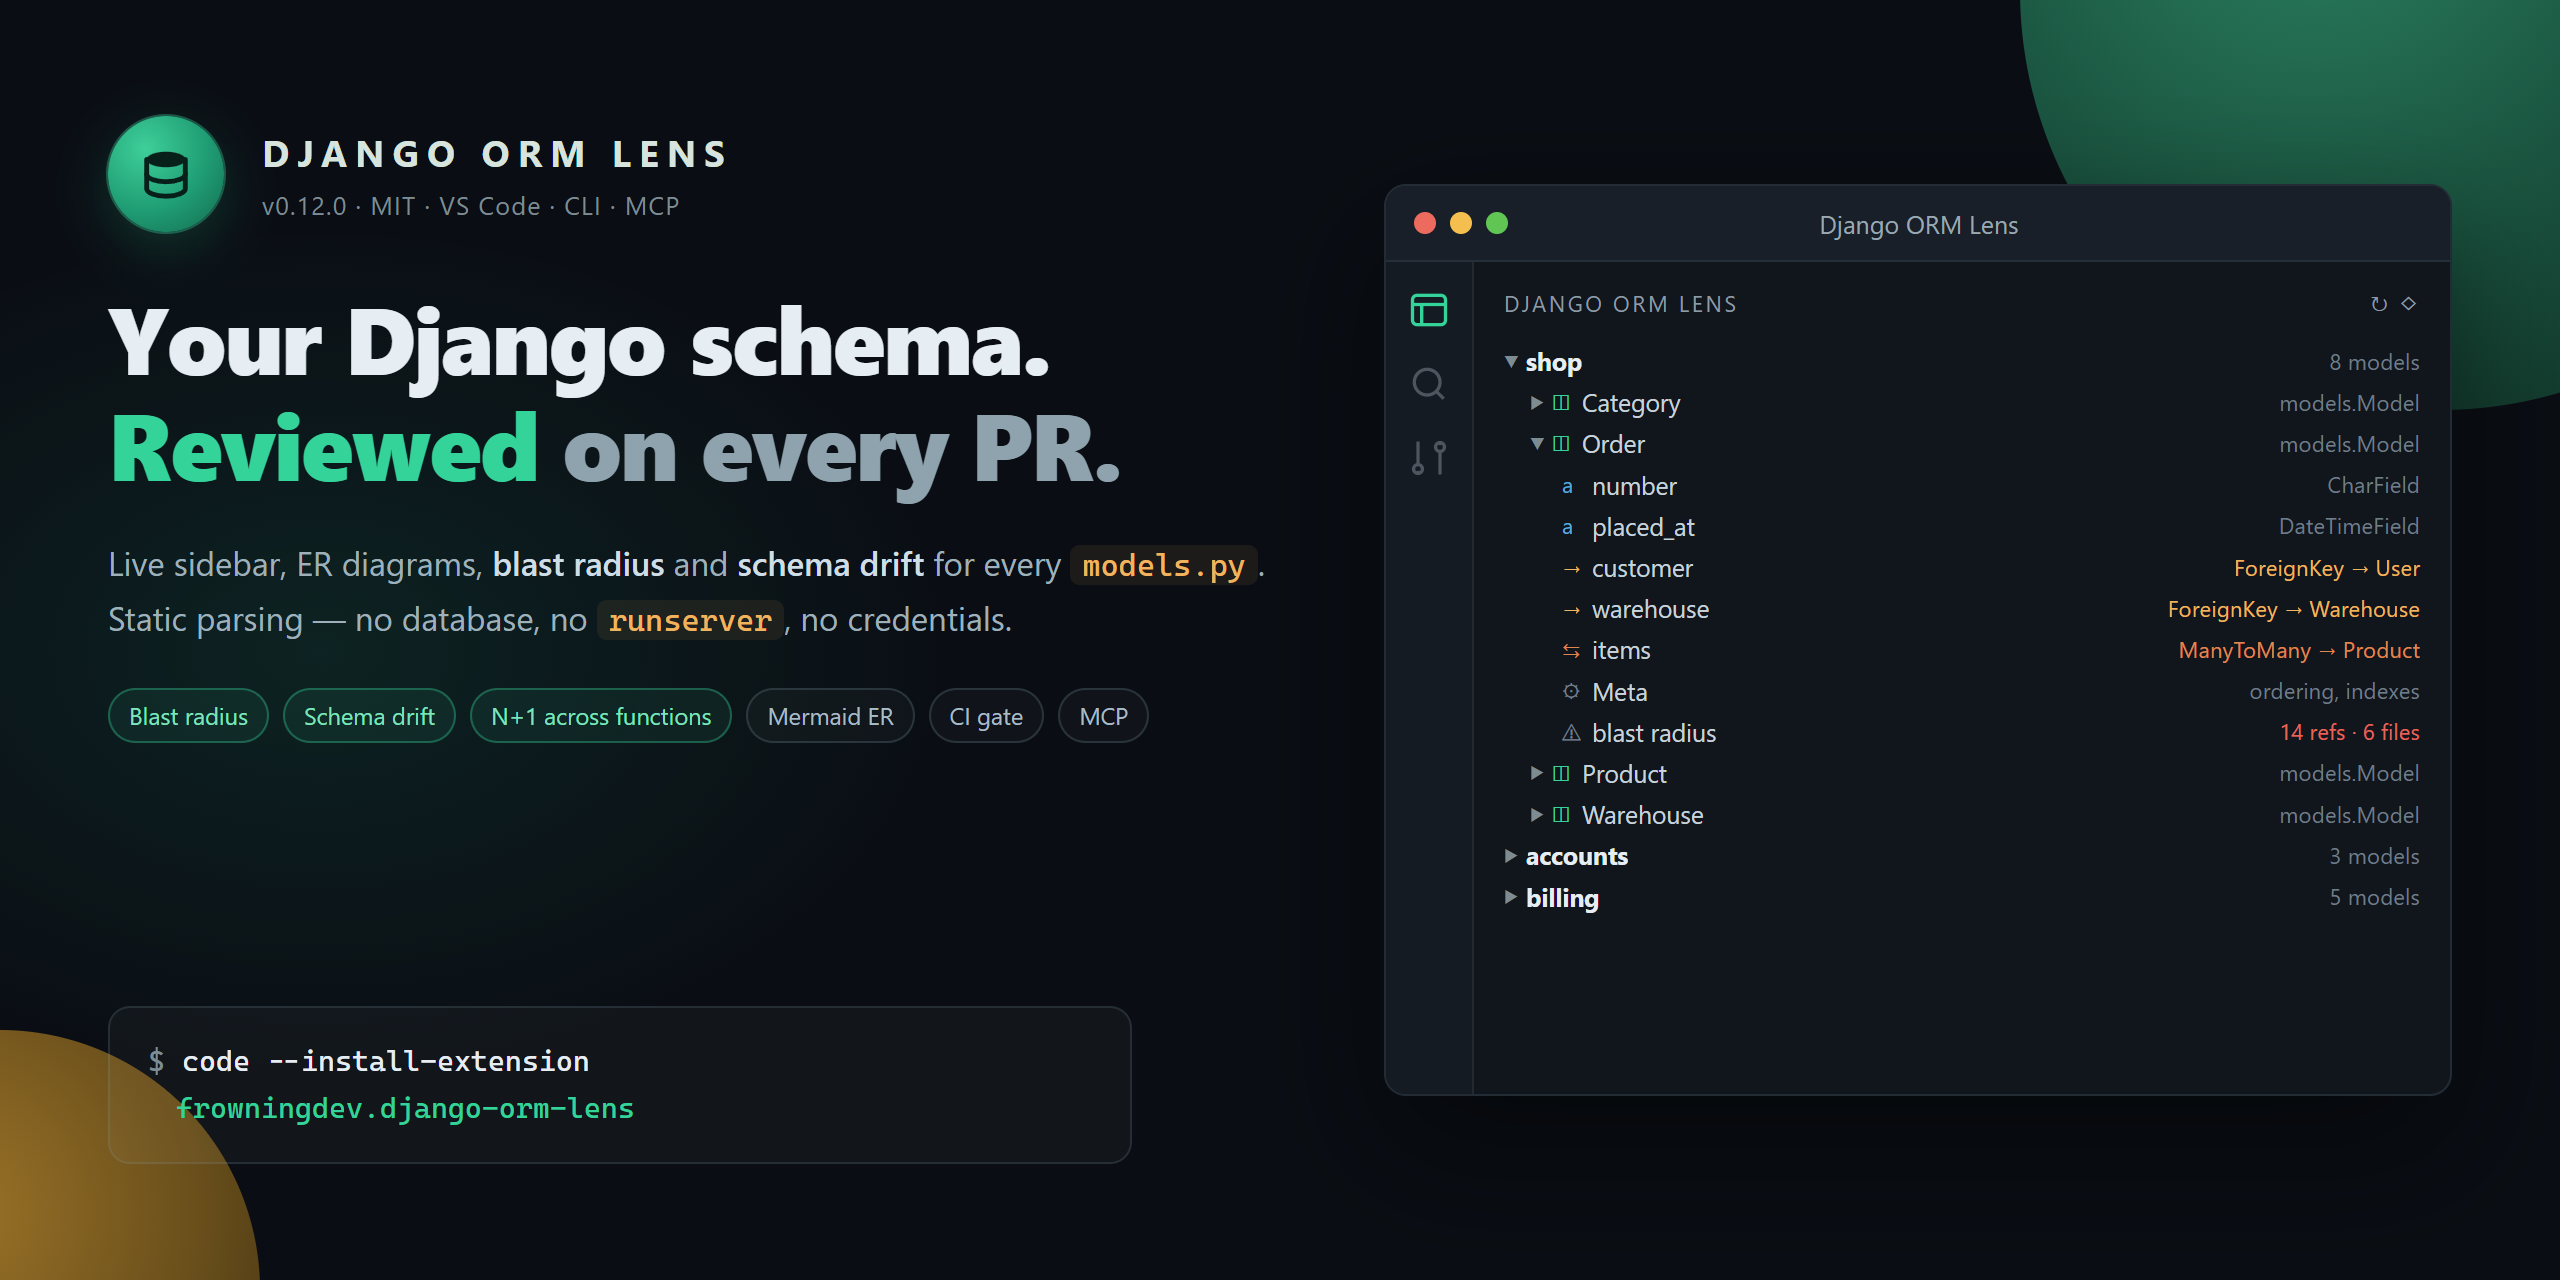
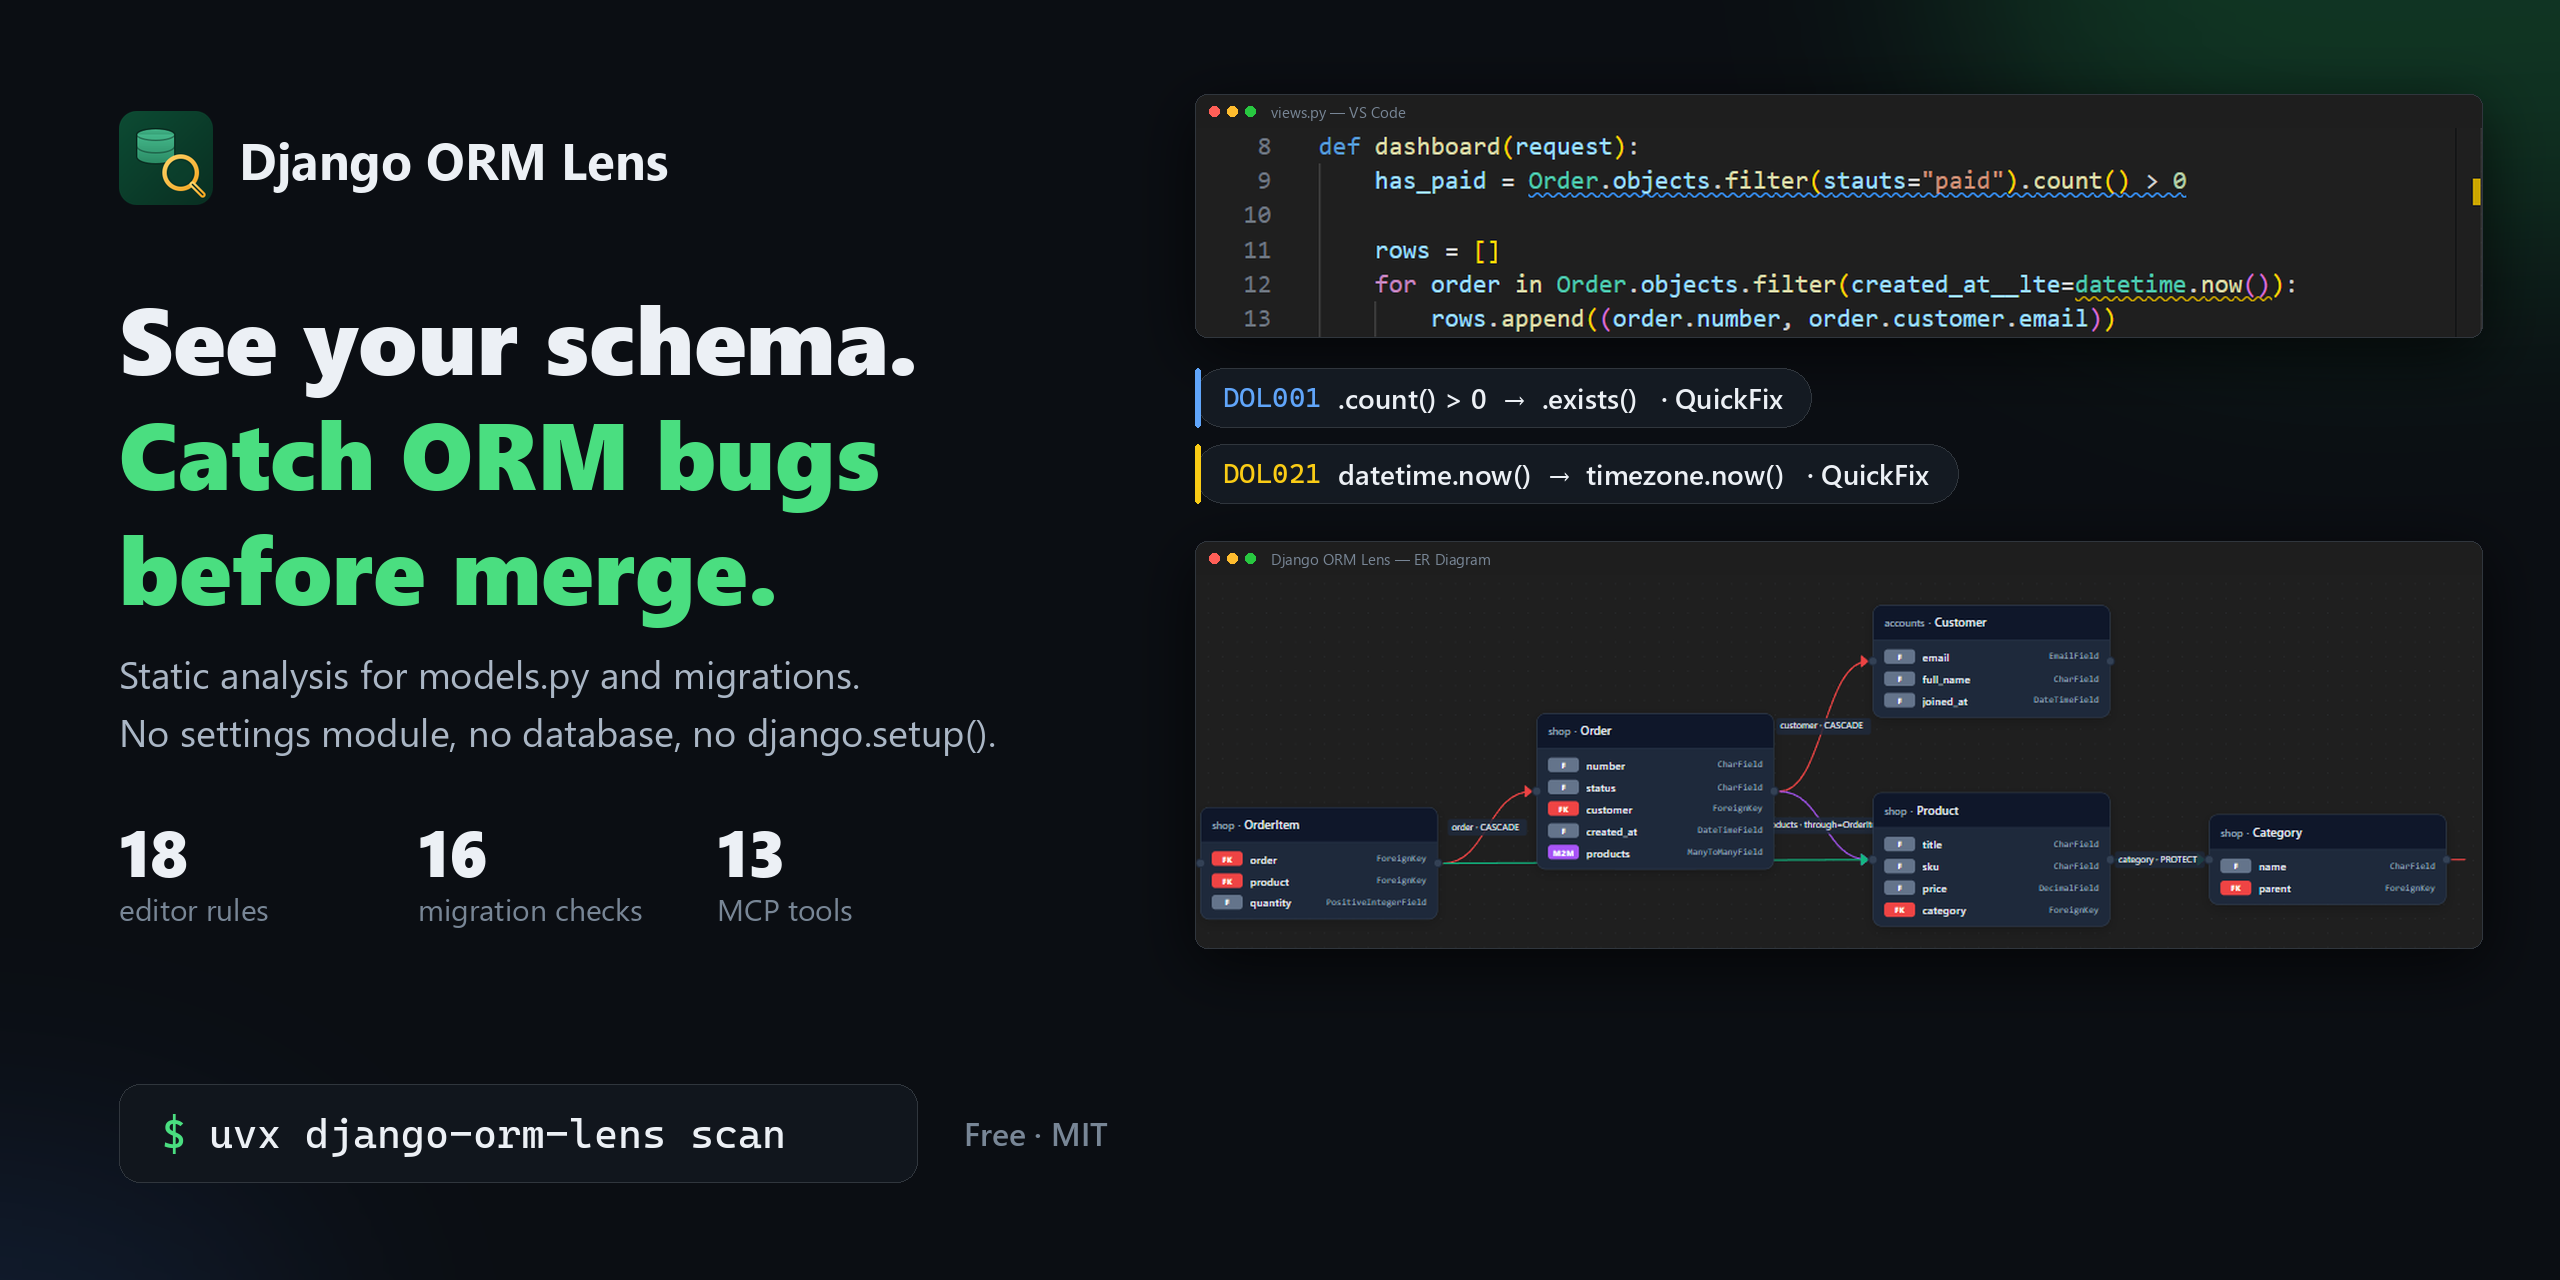
docs(readme): real VS Code capture for the hero and the screenshot section (#117)
The old hero still said v0.12.0 and was a drawn mock-up. The new one is
built from a VS Code window running extension 0.19.0 on a five-model
demo project: the diagnostics shown (DOL001, DOL021) and the ER diagram
are what the extension actually rendered. The same capture, uncropped,
replaces the hero reuse in "What it looks like" in all four READMEs.

diff --git a/docs/i18n/README.ru.md b/docs/i18n/README.ru.md
@@ -304,7 +304,7 @@ docker run --rm -v "$PWD:/workspace" ghcr.io/frowningdev/django-orm-lens scan --
 ## 📸 Как это выглядит
 
 <div align="center" markdown="1">
-<img src="../../media/hero.png" alt="Django ORM Lens sidebar showing an app's models with fields, relations, and Meta options" width="90%"/>
+<img src="../../media/screenshot-vscode.png" alt="VS Code with Django ORM Lens: the model tree, ORM diagnostics in views.py and the live ER diagram" width="100%"/>
 </div>
 
 **Живой пример** — настоящий вывод `django-orm-lens er`, GitHub рендерит его прямо здесь:

diff --git a/README.md b/README.md
@@ -337,7 +337,7 @@ Stable `TreeItem.id` — refresh no longer collapses the tree. Rich `MarkdownStr
 ## 📸 What it looks like
 
 <div align="center" markdown="1">
-<img src="media/hero.png" alt="Django ORM Lens sidebar showing an app's models with fields, relations, and Meta options" width="90%" loading="lazy" decoding="async"/>
+<img src="media/screenshot-vscode.png" alt="VS Code with Django ORM Lens: the model tree, ORM diagnostics in views.py and the live ER diagram" width="100%" loading="lazy" decoding="async"/>
 </div>
 
 **Live sample** — real `django-orm-lens er` output, rendered by GitHub right here:

diff --git a/docs/i18n/README.es.md b/docs/i18n/README.es.md
@@ -304,7 +304,7 @@ Insignias de `FileDecorationProvider`: `!` roja en FK sin `on_delete`, `~` amari
 ## 📸 Cómo se ve
 
 <div align="center" markdown="1">
-<img src="../../media/hero.png" alt="Barra lateral de Django ORM Lens mostrando los modelos de una aplicación con campos, relaciones y opciones Meta" width="90%"/>
+<img src="../../media/screenshot-vscode.png" alt="VS Code con Django ORM Lens: árbol de modelos, diagnósticos del ORM en views.py y el diagrama ER en vivo" width="100%"/>
 </div>
 
 **Ejemplo en vivo** — salida real de `django-orm-lens er`, renderizada por GitHub aquí mismo:

diff --git a/docs/i18n/README.zh.md b/docs/i18n/README.zh.md
@@ -304,7 +304,7 @@ FK 上的 `.filter(field=?)` 自动追加 `.select_related(...)`，`.annotate(po
 ## 📸 界面预览
 
 <div align="center" markdown="1">
-<img src="../../media/hero.png" alt="Django ORM Lens sidebar showing an app's models with fields, relations, and Meta options" width="90%"/>
+<img src="../../media/screenshot-vscode.png" alt="VS Code with Django ORM Lens: the model tree, ORM diagnostics in views.py and the live ER diagram" width="100%"/>
 </div>
 
 **实时示例** — `django-orm-lens er` 的真实输出，GitHub 会直接在此渲染：
